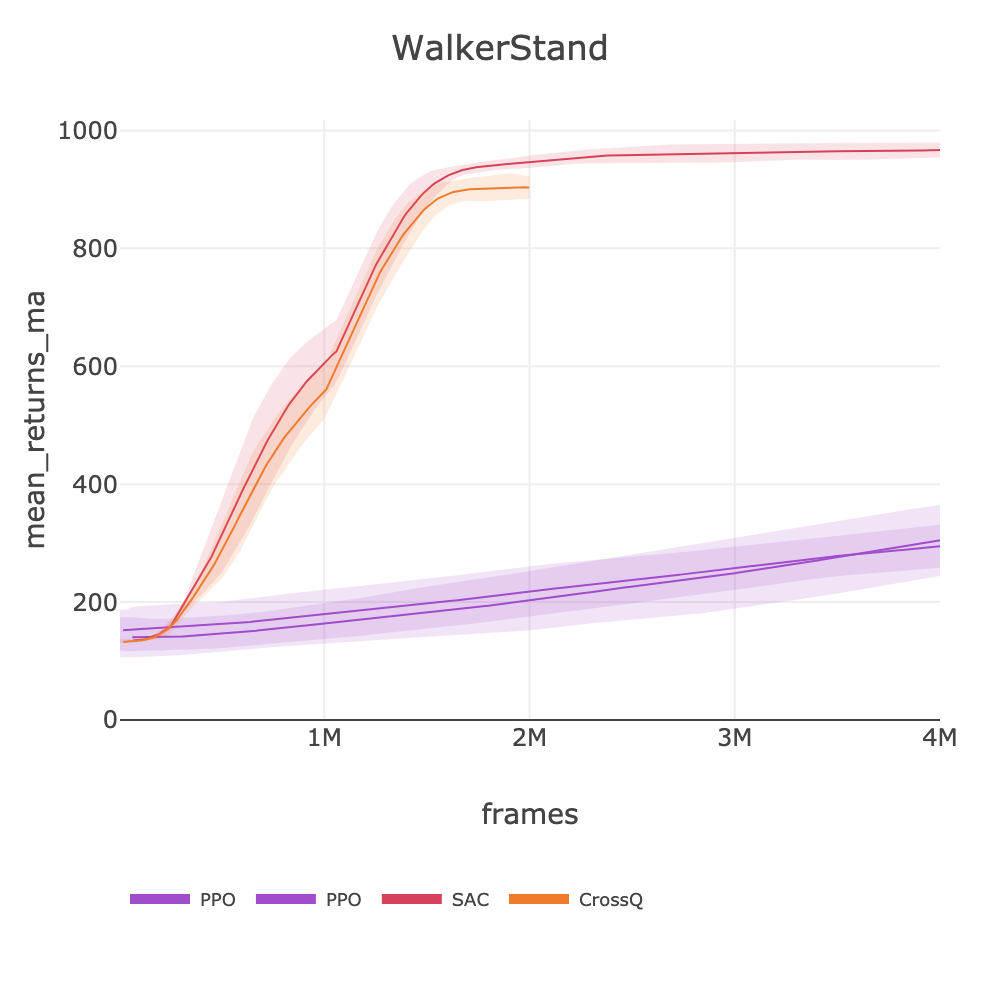
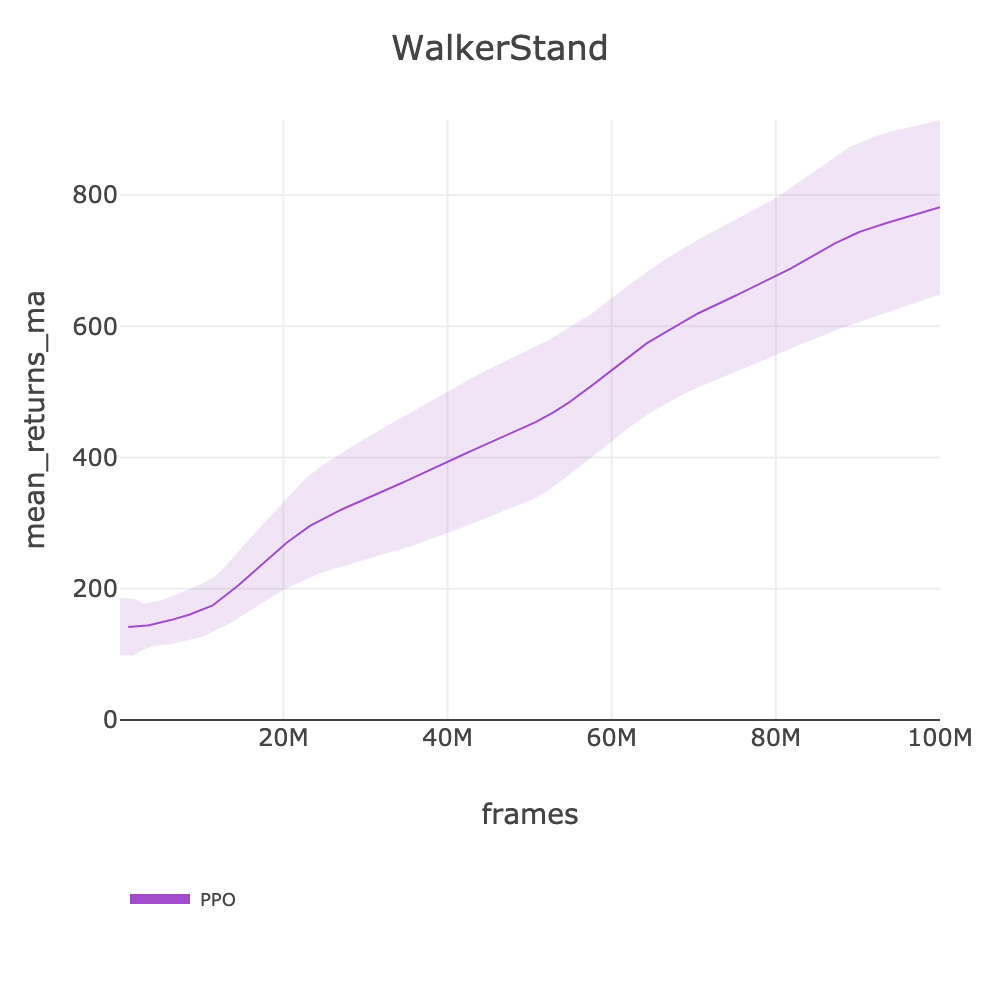
feat: intake ReacherEasy 964.20, ReacherHard 957.94, WalkerStand 781.26

diff --git a/docs/BENCHMARKS.md b/docs/BENCHMARKS.md
@@ -948,10 +948,10 @@ source .env && uv run slm-lab run-remote --gpu \
 | playground/PointMass | PPO | ✅ | 801.57 | ppo_playground | [ppo_playground_pointmass_2026_03_11_100801](https://huggingface.co/datasets/SLM-Lab/benchmark-dev/tree/main/data/ppo_playground_pointmass_2026_03_11_100801) | 1000 | 13920 | 100M | 1h 59m |
 | | SAC | 🔄 | - | sac_playground | - | | - | - | - |
 | | CrossQ | 🔄 | - | crossq_playground | - | | - | - | - |
-| playground/ReacherEasy | PPO | 🔄 | - | ppo_playground | - | 950 | - | - | - |
+| playground/ReacherEasy | PPO | ✅ | 964.20 | ppo_playground | [ppo_playground_reachereasy_2026_03_11_121032](https://huggingface.co/datasets/SLM-Lab/benchmark-dev/tree/main/data/ppo_playground_reachereasy_2026_03_11_121032) | 950 | 14020 | 100M | 1h 59m |
 | | SAC | 🔄 | - | sac_playground | - | | - | - | - |
 | | CrossQ | 🔄 | - | crossq_playground | - | | - | - | - |
-| playground/ReacherHard | PPO | 🔄 | - | ppo_playground | - | 950 | - | - | - |
+| playground/ReacherHard | PPO | ✅ | 957.94 | ppo_playground | [ppo_playground_reacherhard_2026_03_11_121052](https://huggingface.co/datasets/SLM-Lab/benchmark-dev/tree/main/data/ppo_playground_reacherhard_2026_03_11_121052) | 950 | 12380 | 100M | 2h 15m |
 | | CrossQ | 🔄 | - | crossq_playground | - | | - | - | - |
 | | SAC | 🔄 | - | sac_playground | - | | - | - | - |
 | playground/SwimmerSwimmer6 | PPO | 🔄 | - | ppo_playground | - | 550 | - | - | - |
@@ -960,7 +960,7 @@ source .env && uv run slm-lab run-remote --gpu \
 | playground/WalkerRun | PPO | 🔄 | - | ppo_playground | - | 700 | - | - | - |
 | | CrossQ | 🔄 | - | crossq_playground | - | | - | - | - |
 | | SAC | 🔄 | - | sac_playground | - | | - | - | - |
-| playground/WalkerStand | PPO | 🔄 | - | ppo_playground | - | 1000 | - | - | - |
+| playground/WalkerStand | PPO | ✅ | 781.26 | ppo_playground | [ppo_playground_walkerstand_2026_03_11_100507](https://huggingface.co/datasets/SLM-Lab/benchmark-dev/tree/main/data/ppo_playground_walkerstand_2026_03_11_100507) | 1000 | 10170 | 100M | 2h 44m |
 | | PPO | 🔄 | - | ppo_playground_loco | - | | - | - | - |
 | | CrossQ | 🔄 | - | crossq_playground | - | | - | - | - |
 | | SAC | 🔄 | - | sac_playground | - | | - | - | - |
